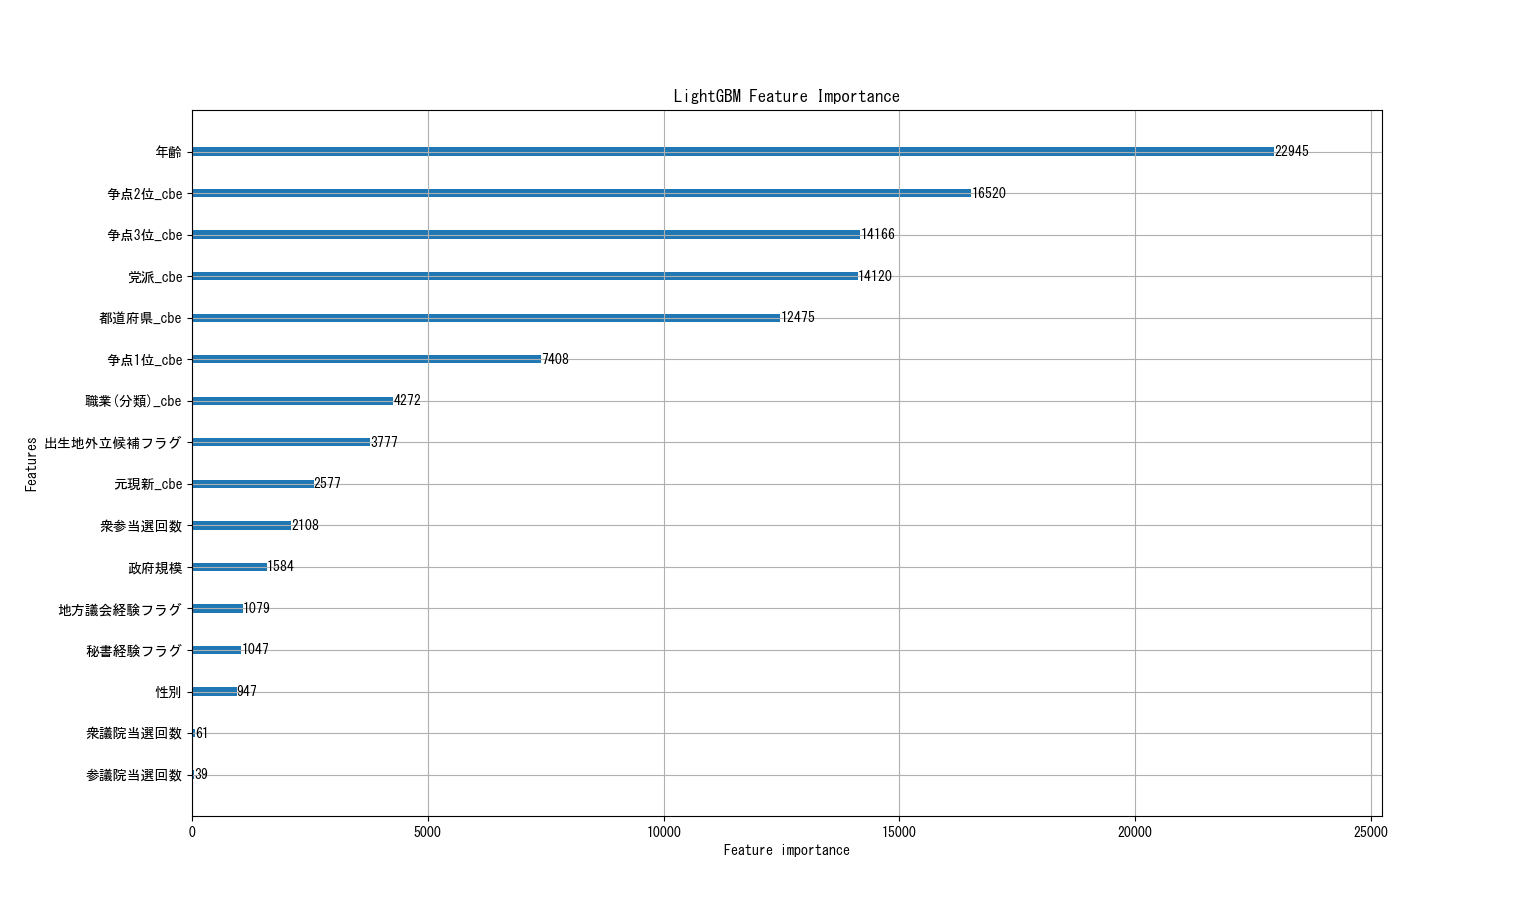
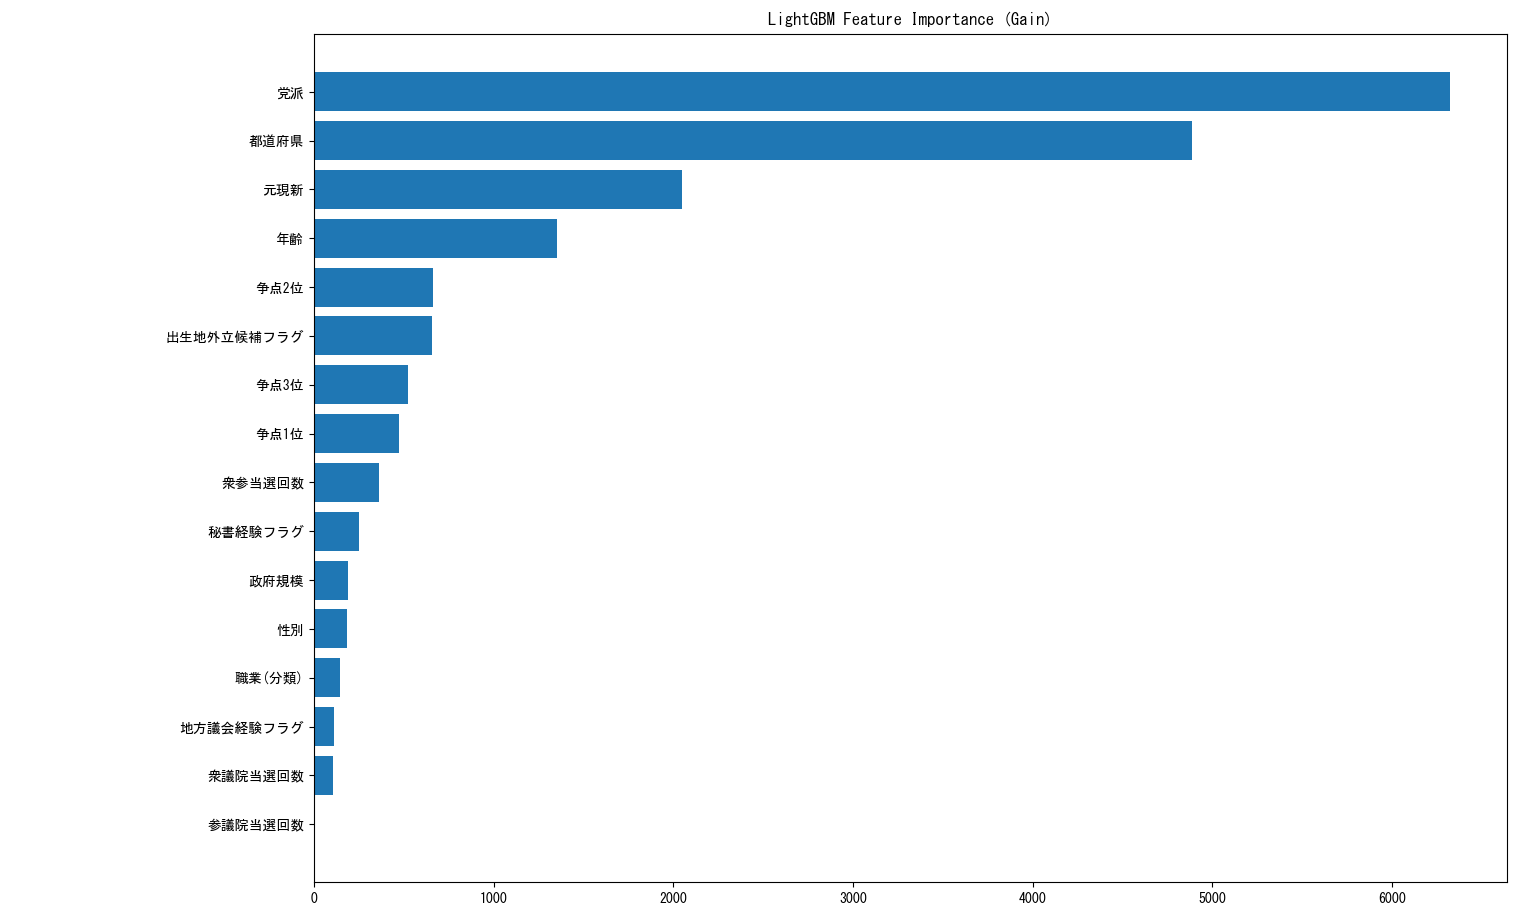
Initial commit

diff --git a/machine_learning/machine_learning.py b/machine_learning/machine_learning.py
@@ -12,7 +12,10 @@ plt.rcParams["font.family"] = "MS Gothic"
 # ============================
 # データ読み込み
 # ============================
-df = pd.read_excel("./Data/2025_upperhouse_election_constituency_system_cleaning.xlsx", engine="openpyxl")
+df = pd.read_excel(
+    "./Data/2025_upperhouse_election_constituency_system_cleaning.xlsx",
+    engine="openpyxl"
+)
 df.columns = df.columns.str.strip()
 
 rename_dict = {
@@ -33,7 +36,7 @@ df["当落"] = df["当落"].map({"当": 1, "落": 0})
 y = df["当落"]
 
 # ============================
-# 特徴量セット（議席数 → 都道府県）
+# 特徴量
 # ============================
 features = [
     "年齢", "性別", "衆参当選回数",
@@ -47,30 +50,39 @@ features = [
 X = df[features].copy()
 
 # ============================
-# CatBoost Encoding（カテゴリ列）
+# CatBoost Encoding 対象列
 # ============================
-cat_cols = ["党派", "元現新", "争点1位", "争点2位", "争点3位", "職業(分類)", "都道府県"]
+cat_cols = [
+    "党派", "元現新",
+    "争点1位", "争点2位", "争点3位",
+    "職業(分類)", "都道府県"
+]
 
-# 元のカテゴリ列を X に残しておく
+# 元列を X に追加
 for col in cat_cols:
     if col not in X.columns:
         X[col] = df[col]
 
+# ============================
+# CatBoost Encoding（OOF）
+# ============================
 cbe = CatBoostEncoder()
 kf = KFold(n_splits=5, shuffle=True, random_state=42)
 
 X_cbe = np.zeros((len(X), len(cat_cols)))
+
 for tr_idx, va_idx in kf.split(X):
     X_tr, X_va = X.iloc[tr_idx], X.iloc[va_idx]
     y_tr = y.iloc[tr_idx]
+
     cbe.fit(X_tr[cat_cols], y_tr)
     X_cbe[va_idx, :] = cbe.transform(X_va[cat_cols]).values
 
-# 変換結果を新しい列として追加
+# エンコード結果を追加
 for i, col in enumerate(cat_cols):
     X[f"{col}_cbe"] = X_cbe[:, i]
 
-# 元の object 型列は削除（LightGBM は object 型を扱えない）
+# 元のカテゴリ列は削除
 X = X.drop(columns=cat_cols)
 
 # ============================
@@ -92,6 +104,7 @@ params = {
     "verbose": -1,
     "seed": 42
 }
+
 train_data = lgb.Dataset(X, y)
 
 model = lgb.train(
@@ -101,7 +114,7 @@ model = lgb.train(
 )
 
 # ============================
-# 学習データで予測
+# 予測
 # ============================
 y_pred_prob = model.predict(X)
 y_pred = (y_pred_prob >= 0.5).astype(int)
@@ -117,14 +130,32 @@ print(f"Recall   : {recall_score(y, y_pred):.3f}")
 print(f"F1-score : {f1_score(y, y_pred):.3f}")
 
 # ============================
-# 特徴量重要度
+# 特徴量重要度（_cbe なし・安全）
 # ============================
-lgb.plot_importance(model, figsize=(8, 10))
-plt.title("LightGBM Feature Importance")
+importances = model.feature_importance(importance_type="gain")
+feature_names = model.feature_name()
+
+# 表示用に _cbe を除去
+display_feature_names = [
+    f.replace("_cbe", "") if f.endswith("_cbe") else f
+    for f in feature_names
+]
+
+df_imp = pd.DataFrame({
+    "feature": display_feature_names,
+    "importance": importances
+}).sort_values("importance", ascending=False)
+
+# プロット
+plt.figure(figsize=(8, 10))
+plt.barh(df_imp["feature"], df_imp["importance"])
+plt.gca().invert_yaxis()
+plt.title("LightGBM Feature Importance (Gain)")
+plt.tight_layout()
 plt.show()
 
 # ============================
-# モデル保存
+# モデル保存（エラーなし）
 # ============================
 model_package = {
     "model": model,

diff --git a/prob_rookie_win/extract_rookie_wineers.py b/prob_rookie_win/extract_rookie_wineers.py
@@ -1,0 +1,37 @@
+import pandas as pd
+
+# ============================
+# データ読み込み
+# ============================
+input_path = "./Data/2025_upperhouse_election_constituency_system_cleaning.xlsx"
+output_path = "./Data/rookie_winners.xlsx"
+
+df = pd.read_excel(input_path, engine="openpyxl")
+df.columns = df.columns.str.strip()
+
+# ============================
+# 新人かつ当選者を抽出
+# ============================
+rookie_winners = df[
+    (df["元現新"] == "新") &
+    (df["当落"] == "当")
+].copy()
+
+# ============================
+# 並び替え（任意）
+# ============================
+# 都道府県 → 年齢順
+if "都道府県" in rookie_winners.columns:
+    rookie_winners = rookie_winners.sort_values(
+        by=["都道府県", "年齢"],
+        ascending=[True, True]
+    )
+
+# ============================
+# 出力
+# ============================
+rookie_winners.to_excel(output_path, index=False)
+
+print("新人当選者の抽出が完了しました")
+print(f"件数：{len(rookie_winners)}")
+print(f"出力先：{output_path}")
